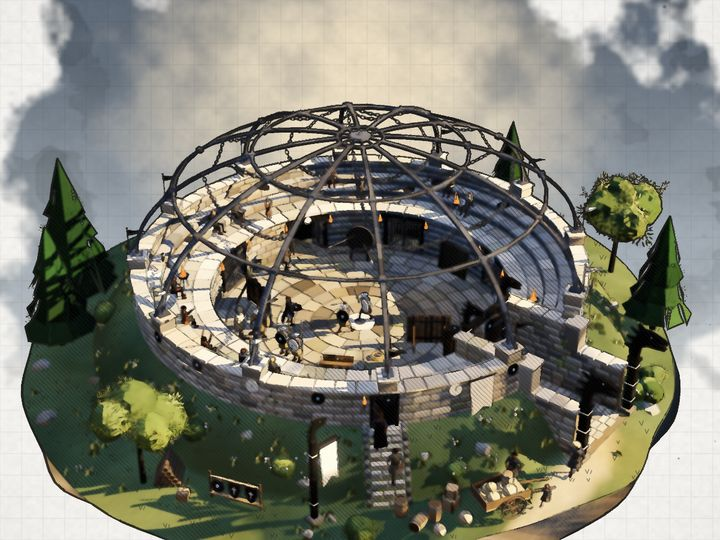
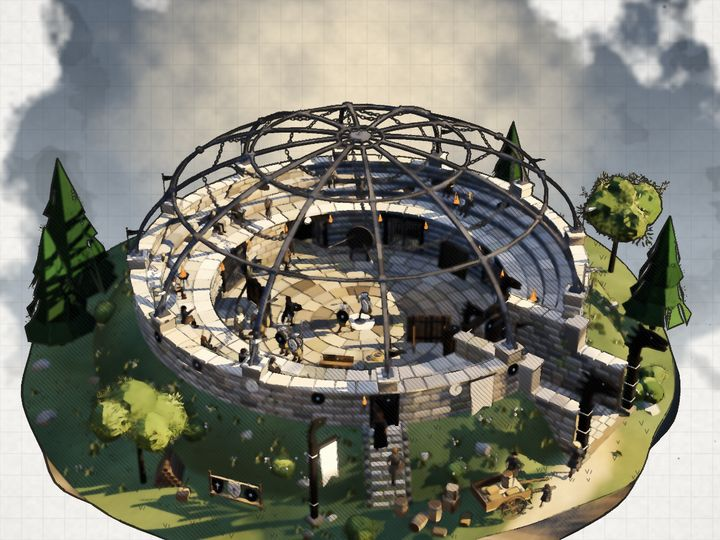
Training ring: flat burlap sacks of sand in place of the round ones
The kit's round cream sacks on the carter's cart and on the grass showed as
pale balls, which in a build that used to hold dragons could pass for eggs.
The ring now has its own sack: a greyish burlap pillow lying flat with its
neck tied off in a short tuft, laid along the cart bed and dropped on the
grass. The picture is repainted.

Claude-Session: https://claude.ai/code/session_01JzR8QyEk5gWZG5LC4qWwJy

diff --git a/public/kit/builds/ring.js b/public/kit/builds/ring.js
@@ -205,6 +205,19 @@
     }
   }
 
+  // a burlap sack of sand lying flat like a pillow, its neck gathered and tied off in a short tuft toward local +x;
+  // the sack's foot at (x, y, z), turned ry, s its size
+  var SACK = ['#857559', '#7a6b52', '#8e7e60'];
+  function ringSack(b, x, y, z, ry, s) {
+    s = s || 1; var M = KIT.M, c = b.pick(SACK), cy = 0.13 * s;
+    b.push(x, y, z, ry);
+    b.box(0, 0, 0, 0.66 * s, 0.26 * s, 0.44 * s, { c: c, m: M.cloth, bevel: 0.09 * s, ao: 0.4 });
+    b.cyl(0.31 * s, cy, 0, 0.09 * s, 0.09 * s, { c: c, m: M.cloth, r2: 0.035 * s, seg: 6, rz: -Math.PI / 2, ao: 0.1 });
+    b.cyl(0.39 * s, cy, 0, 0.042 * s, 0.03 * s, { c: 'rope', m: M.rope, seg: 6, rz: -Math.PI / 2, ao: 0 });
+    b.cyl(0.41 * s, cy, 0, 0.03 * s, 0.05 * s, { c: c, m: M.cloth, r2: 0.055 * s, seg: 6, rz: -Math.PI / 2, ao: 0 });
+    b.pop();
+  }
+
   // a banner pole at the turn of the path: a square post with bone-painted bands, an arm with a bone banner bearing
   // three ink claw slashes, a dragon head carved on top looking out along the arm (local +x); the banner faces +z
   function ringBannerPole(b, x, y, z, ry, h) {
@@ -666,7 +679,8 @@
         var cp = ringPol(15.3, 1.78), cry = 1.36, cy0 = Math.min(gh(cp[0], cp[1]), gh(cp[0] - 0.4, cp[1] + 0.8)) - 0.02;
         b.push(0, cy0, 0, 0);
         b.cart(cp[0], cp[1], { ry: cry, load: function (bb) {
-          bb.sack(-0.3, 0.74, -0.55, 0.5); bb.sack(0.3, 0.74, -0.5, 0.48); bb.sack(-0.22, 0.74, 0.3, 0.52); bb.sack(0.0, 1.1, -0.5, 0.42, {});
+          ringSack(bb, -0.3, 0.76, -0.45, Math.PI / 2 + 0.1, 0.95); ringSack(bb, 0.3, 0.76, -0.5, Math.PI / 2 - 0.12, 0.9);
+          ringSack(bb, -0.3, 0.76, 0.42, -Math.PI / 2 + 0.08, 0.95); ringSack(bb, 0.0, 1.0, -0.42, Math.PI / 2 + 0.05, 0.85);
           bb.barrel(0.34, 0.77, 0.5, { h: 0.7, r: 0.26 });
         } });
         b.pop();
@@ -674,8 +688,8 @@
         [[ringPol(15.3, 1.98), 0.9, 0], [ringPol(14.75, 2.07), 0.8, 0]].forEach(function (q) { b.barrel(q[0][0], gh(q[0][0], q[0][1]) - 0.03, q[0][1], { h: q[1] }); });
         var lb = ringPol(15.6, 2.03); b.barrel(lb[0], gh(lb[0], lb[1]) - 0.04, lb[1], { lie: true, ry: 0.4, h: 0.85 });
         var cr = ringPol(14.75, 1.92); b.crate(cr[0], gh(cr[0], cr[1]) - 0.02, cr[1], 0.62, { ry: 0.3 }); b.crate(cr[0] + 0.05, gh(cr[0], cr[1]) + 0.6, cr[1] - 0.02, 0.5, { ry: 0.6 });
-        var fb = ringPol(15.75, 1.9); b.sack(fb[0], gh(fb[0], fb[1]) - 0.03, fb[1], 0.55);
-        var fb2 = ringPol(16.1, 1.98); b.sack(fb2[0], gh(fb2[0], fb2[1]) - 0.03, fb2[1], 0.5);
+        var fb = ringPol(15.75, 1.9); ringSack(b, fb[0], gh(fb[0], fb[1]) - 0.03, fb[1], 0.7, 1.05);
+        var fb2 = ringPol(16.1, 1.98); ringSack(b, fb2[0], gh(fb2[0], fb2[1]) - 0.03, fb2[1], 2.3, 0.95);
       });
       b.unit(function () {
         // a banner pole at the turn of the path, its banner toward the road
